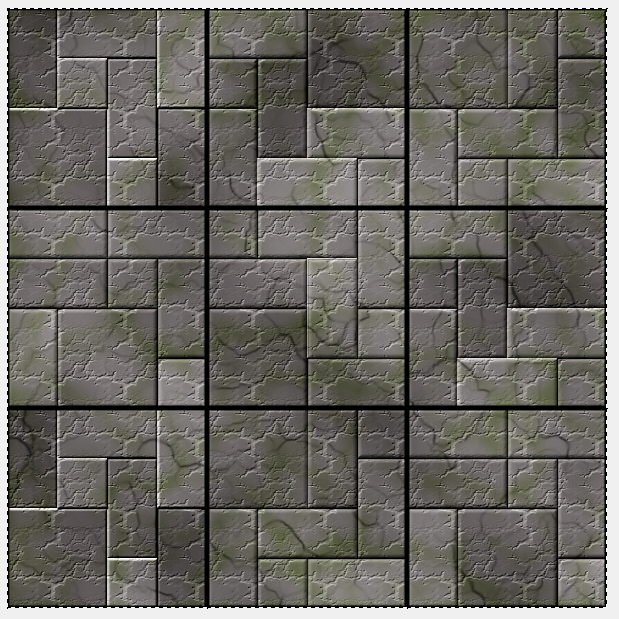
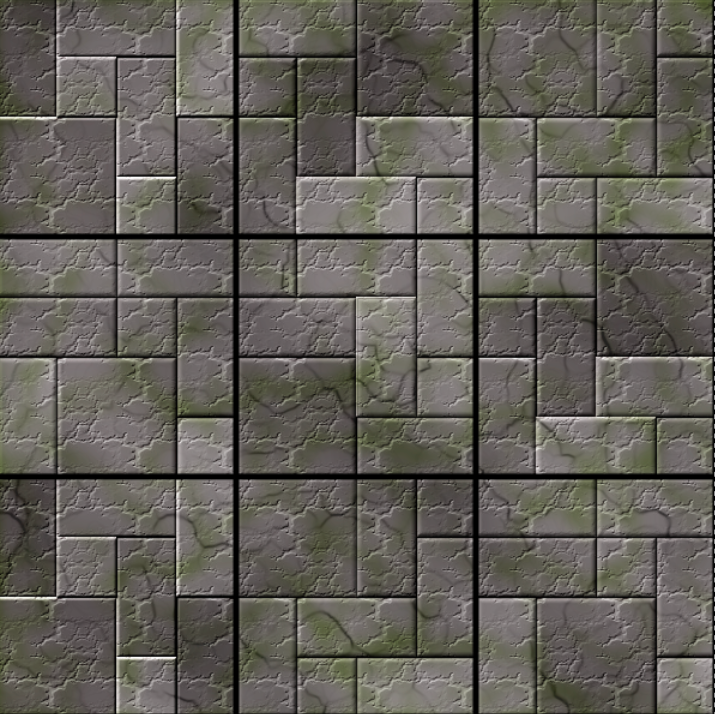
initial player screen

diff --git a/src/main/design/Room.css b/src/main/design/Room.css
@@ -1,0 +1,15 @@
+.stats {
+    -fx-background-color: #dcdcdc;
+}
+
+.cash_value {
+    -fx-font-weight: bold;
+    -fx-font-family: "Times New Roman";
+    -fx-font-size: 20px;
+}
+
+.screen {
+    -fx-background-image: url("/main/design/images/dungeon_floor.png");
+    -fx-background-position: center center;
+    -fx-spacing: 50px;
+}

diff --git a/src/main/frontend/Room.java b/src/main/frontend/Room.java
@@ -6,18 +6,21 @@ import javafx.scene.image.*;
 import javafx.scene.layout.*;
 import main.backend.Controller;
 
-public class FirstRoom {
-    public static Scene getScene() {
+public class Room {
+    //Current supported types include: empty
+    public static Scene getScene(String type) {
         StackPane screen = new StackPane();
         BorderPane bPane = new BorderPane();
         screen.getChildren().addAll(bPane);
-        Scene roomScene = new Scene(screen);
-        roomScene.getStylesheets().add("screen");
+        Scene roomScene = new Scene(screen, MainScreen.length, MainScreen.height);
+        screen.getStyleClass().add("screen");
+        roomScene.getStylesheets().addAll("/main/design/Room.css");
 
         int numHearts = 0;
         Integer amountCash = 0;
 
         VBox healthAndCash = new VBox(5);
+        healthAndCash.getStyleClass().add("stats");
         HBox hearts = new HBox(2);
         HBox cash = new HBox(10, new ImageView("/main/design/images/coin.png")); //buy upgrades or we can add more weapons later or something
         healthAndCash.getChildren().addAll(hearts, cash);
@@ -42,7 +45,12 @@ public class FirstRoom {
         cash.getChildren().addAll(cashValue);
 
         bPane.setTop(healthAndCash);
-        roomScene.getStylesheets().add("/main/design/FirstRoom.css");
+
+        if(type.equals("empty")) {
+            GameManager.initializeEmptyRoom(screen, roomScene);
+        } else {
+            throw new IllegalArgumentException("Room type not supported.");
+        }
 
         return roomScene;
     }

diff --git a/src/main/frontend/GameManager.java b/src/main/frontend/GameManager.java
@@ -16,6 +16,7 @@ public class GameManager {
         GameManager.screen = screen;
         GameManager.scene = scene;
         addImage(Player.getInstance().getImage());
+        addImage(Player.getInstance().getMainWeapon().getImage());
     }
 
     public static void clearScreen() {
@@ -28,6 +29,10 @@ public class GameManager {
 
     public static void destroyImage(ImageView image) {
         screen.getChildren().remove(image);
+    }
+
+    public static void initializeEmptyRoom(Pane screen, Scene scene) {
+        setScreen(screen, scene);
     }
 /*
     public static void gameLoop() {

diff --git a/src/main/backend/characters/Sprite.java b/src/main/backend/characters/Sprite.java
@@ -54,6 +54,10 @@ public abstract class Sprite {
         return name;
     }
 
+    public Weapon getMainWeapon() {
+        return mainWeapon;
+    }
+
     public void setImage(String imagePath, int maxsize) {
         this.image = new ImageView(new Image(imagePath));
         this.image.setPreserveRatio(true);
@@ -89,6 +93,7 @@ public abstract class Sprite {
         this.y = newY;
         this.image.setX(this.x);
         this.image.setY(this.y);
+        mainWeapon.move(this.x, this.y);
     }
 
     public void hit(Sprite s) {

diff --git a/src/main/frontend/SetUpPlayerScreen.java b/src/main/frontend/SetUpPlayerScreen.java
@@ -245,7 +245,7 @@ public class SetUpPlayerScreen {
                 //updates name, weapon, and difficulty for player
                 Controller.createPlayer(400, 400, nameField.getText(), weapons[indexW], characters[indexC]);
                 Controller.difficultyLevel = diffCombo.getValue() == null ? "Easy" : diffCombo.getValue();
-                MainScreen.setScene(FirstRoom.getScene());
+                MainScreen.setScene(Room.getScene("empty"));
             }
         });
 

diff --git a/src/main/backend/characters/Player.java b/src/main/backend/characters/Player.java
@@ -14,7 +14,7 @@ public class Player extends Sprite {
     private Orientation direction;
 
     private Player() {
-        this(400, 400, 1, 1.0, 100, 5, null, null, null);
+        this(400, 400, 1, 1.0, 100, 5, null, null, "/main/design/images/char1.gif");
     }
 
     private Player(double x, double y, double attackMultiplier, double speed,

diff --git a/src/main/backend/weapons/Weapon.java b/src/main/backend/weapons/Weapon.java
@@ -60,6 +60,11 @@ public abstract class Weapon {
         return this.damage;
     }
 
+    public void move(double x, double y) {
+        this.x = x;
+        this.y = y;
+    }
+
     public void follow(int x, int y) {
         double angle = Math.atan2(y-this.y, x-this.x);
         double anglediff = (0 - angle + 180) % 360 - 180;

diff --git a/src/main/frontend/MainScreen.java b/src/main/frontend/MainScreen.java
@@ -1,9 +1,7 @@
 package main.frontend;
 
 import javafx.application.Application;
-import javafx.scene.control.Button;
 import javafx.scene.image.Image;
-import javafx.scene.image.ImageView;
 import javafx.stage.*;
 import javafx.scene.*;
 
